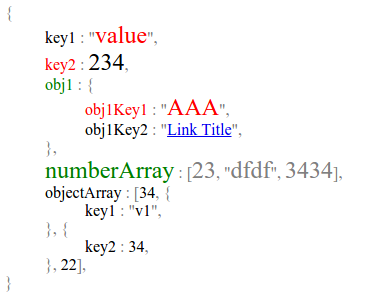
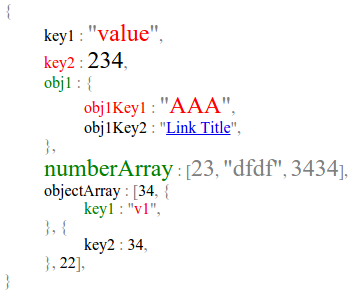
Added Object styles in arrays
examples and picture updated

diff --git a/src/Styler.ts b/src/Styler.ts
@@ -59,18 +59,22 @@ module ObjectStyler {
             }
             return html;
         }
-        private styleArray(array: any[], activatedStyles: string[]) : HTML {
+        private styleArray(array: any[], activaSyls: string[] | StyleDiscription) : HTML {
+            var valSyl = (activaSyls instanceof Array? activaSyls : []);
+            var objectSyl = (typeof activaSyls === 'object'? activaSyls: {});
+
+
             var htmlResult = this.styleSpan("[", [this.punctuationStyleName]);
             for(var i = 0 ; i < array.length ; i++) {
                 if(i !== 0) {
                     htmlResult += this.styleSpan(", ", [this.punctuationStyleName]);
                 }
                 if(array[i] instanceof Array) {
-                    htmlResult += this.styleArray(array[i], activatedStyles);
+                    htmlResult += this.styleArray(array[i], activaSyls);
                 } else if (typeof array[i] === "object" ) {
-                    htmlResult += this.styleObject(array[i], {});
+                    htmlResult += this.styleObject(array[i], objectSyl);
                 } else {
-                    htmlResult += this.styleValue(array[i], activatedStyles);
+                    htmlResult += this.styleValue(array[i], valSyl);
                 }
             }
             htmlResult += this.styleSpan("]", [this.punctuationStyleName]);
@@ -132,12 +136,8 @@ module ObjectStyler {
                     // value
                     if(object[key] instanceof Array) {
 
-                        var arraySyls = getValueActiveStyles(styleDisc[key],[]);
-                        if(arraySyls instanceof Array) {
-                            html += this.styleArray(object[key],arraySyls);
-                        } else {
-                            html += this.styleArray(object[key],[]);
-                        }
+                        var syls = getValueActiveStyles(styleDisc[key],[]);
+                        html += this.styleArray(object[key],syls);
 
                     } else if(typeof object[key] === "object") {
 

diff --git a/tests/simple.html b/tests/simple.html
@@ -50,7 +50,8 @@
             obj1 : {k:'greenSyl', v: {
                 obj1Key1 : {k:'redSyl', v:'fancy'}
             }},
-            numberArray : {k:['bigSyl', 'greenSyl'], v: ['bigSyl', 'codeSyl']}
+            numberArray : {k:['bigSyl', 'greenSyl'], v:['bigSyl', 'codeSyl']},
+            objectArray : {v:{key1:{k:'greenSyl',v:'redSyl'}}}
         }
 
         document.body.innerHTML = styler.style(obj,style);

diff --git a/README.md b/README.md
@@ -7,6 +7,7 @@ Example
 ------------
 
 ```js
+
 var styler = new ObjectStyler.Styler({punctuation: "codeSyl", blockIndent : "indentedSyl", endLine: "endLineSyl"}, [
     {name: "codeSyl", className: "grey"},
     {name: "greenSyl", className: "green"},
@@ -34,7 +35,8 @@ var style = {
     obj1 : {k:'greenSyl', v: {
         obj1Key1 : {k:'redSyl', v:'fancy'}
     }},
-    numberArray : {k:['bigSyl', 'greenSyl'], v: ['bigSyl', 'codeSyl']}
+    numberArray : {k:['bigSyl', 'greenSyl'], v:['bigSyl', 'codeSyl']},
+    objectArray : {v:{key1:{k:'greenSyl',v:'redSyl'}}}
 }
 
 document.body.innerHTML = styler.style(obj,style);
